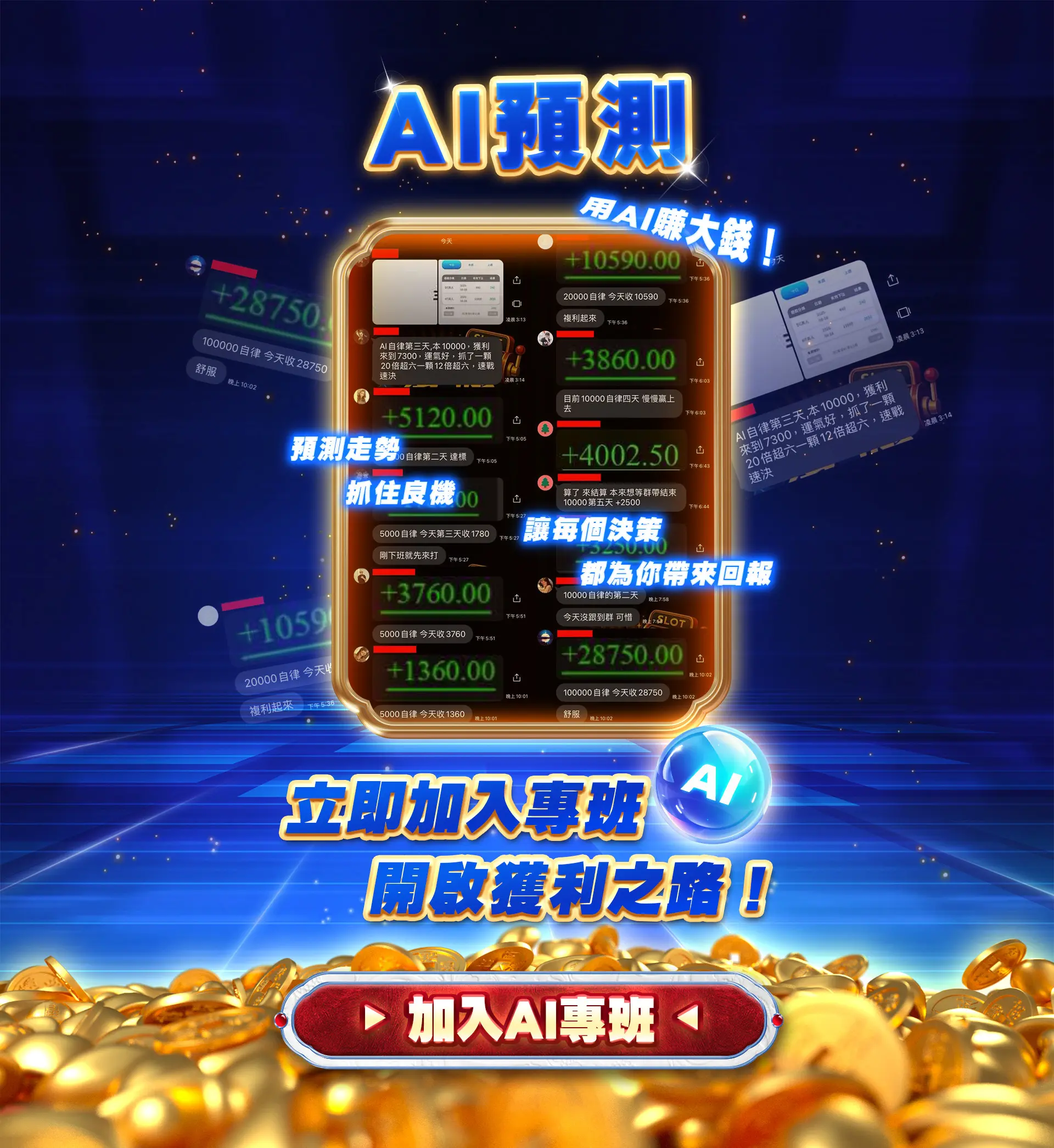
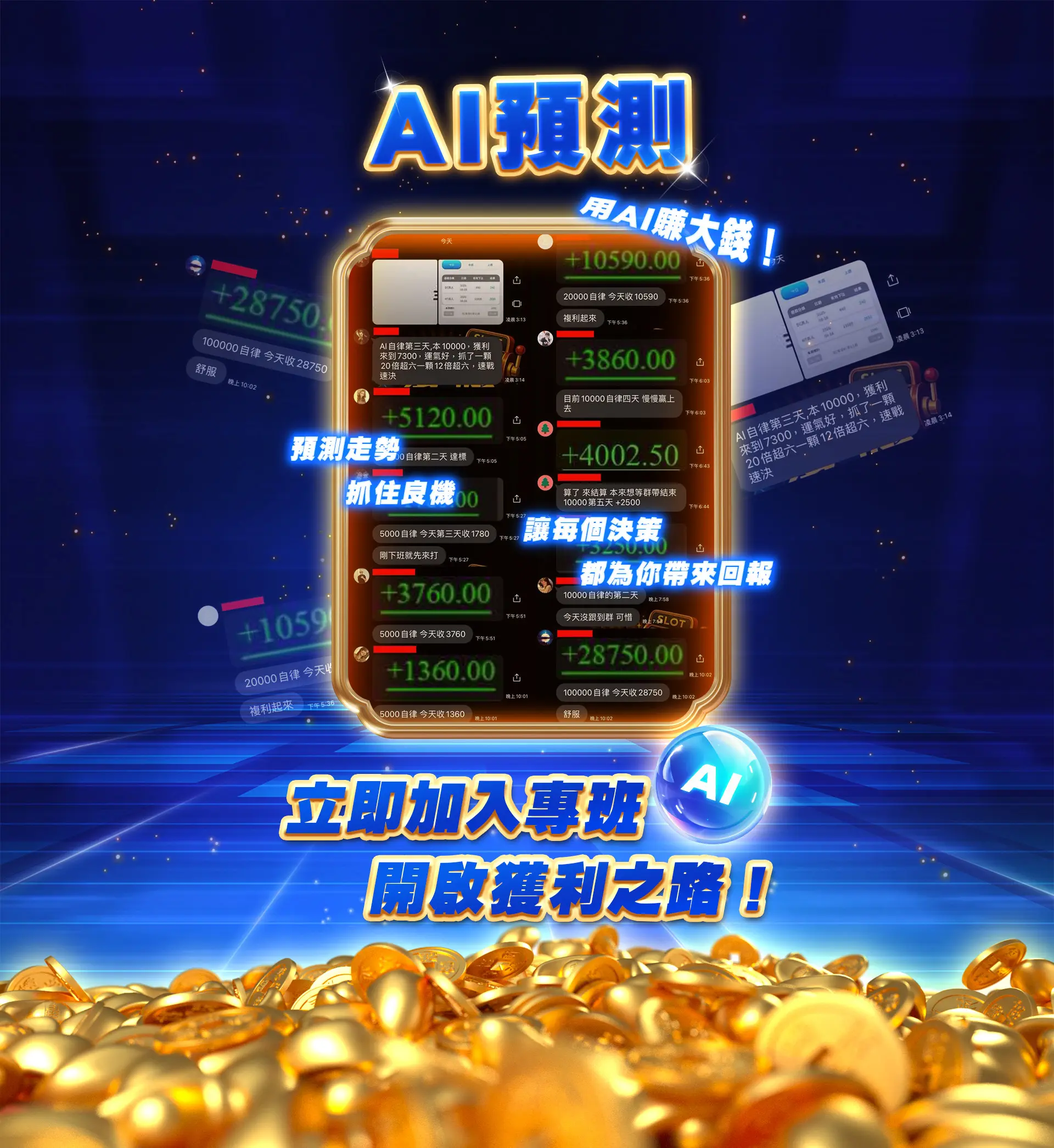
feat: 替换点击区域为按钮图片并优化响应式设计
将点击区域从透明div替换为btn.webp图片按钮，提升用户体验
优化移动端和横屏模式下的按钮显示尺寸和位置

Changed region(s): [[0.25, 0.8397, 0.75, 0.9641]]

diff --git a/index.html b/index.html
@@ -1,46 +1,50 @@
 <!DOCTYPE html>
 <html lang="zh-TW">
+
 <head>
     <meta charset="UTF-8">
     <meta name="viewport" content="width=device-width, initial-scale=1.0, user-scalable=no">
     <title>樂樂 ai預測</title>
-    
+
     <!-- Meta Pixel Code -->
     <script>
-    !function(f,b,e,v,n,t,s)
-    {if(f.fbq)return;n=f.fbq=function(){n.callMethod?
-    n.callMethod.apply(n,arguments):n.queue.push(arguments)};
-    if(!f._fbq)f._fbq=n;n.push=n;n.loaded=!0;n.version='2.0';
-    n.queue=[];t=b.createElement(e);t.async=!0;
-    t.src=v;s=b.getElementsByTagName(e)[0];
-    s.parentNode.insertBefore(t,s)}(window, document,'script',
-    'https://connect.facebook.net/en_US/fbevents.js');
-    fbq('init', '2025555347851416');
-    fbq('track', 'PageView');
+        !function (f, b, e, v, n, t, s) {
+            if (f.fbq) return; n = f.fbq = function () {
+                n.callMethod ?
+                n.callMethod.apply(n, arguments) : n.queue.push(arguments)
+            };
+            if (!f._fbq) f._fbq = n; n.push = n; n.loaded = !0; n.version = '2.0';
+            n.queue = []; t = b.createElement(e); t.async = !0;
+            t.src = v; s = b.getElementsByTagName(e)[0];
+            s.parentNode.insertBefore(t, s)
+        }(window, document, 'script',
+            'https://connect.facebook.net/en_US/fbevents.js');
+        fbq('init', '2025555347851416');
+        fbq('track', 'PageView');
     </script>
     <noscript><img height="1" width="1" style="display:none"
-    src="https://www.facebook.com/tr?id=2025555347851416&ev=PageView&noscript=1"
-    /></noscript>
+            src="https://www.facebook.com/tr?id=2025555347851416&ev=PageView&noscript=1" /></noscript>
     <!-- End Meta Pixel Code -->
-    
+
     <style>
         * {
             margin: 0;
             padding: 0;
             box-sizing: border-box;
         }
-        
-        html, body {
+
+        html,
+        body {
             height: 100%;
         }
-        
+
         .container {
             position: relative;
             width: 100vw;
             height: 100vh;
             overflow: hidden;
         }
-        
+
         .container::before {
             content: '';
             position: absolute;
@@ -56,7 +60,7 @@
             transform: scale(1.1);
             z-index: 1;
         }
-        
+
         .fullscreen-img {
             position: absolute;
             top: 50%;
@@ -68,35 +72,54 @@
             transform: translate(-50%, -50%);
             z-index: 2;
         }
-        
-        .clickable-area {
+
+        .btn-img {
             position: absolute;
-            bottom: 0;
-            left: 0;
-            width: 100%;
-            height: 50%;
+            bottom: 5%;
+            left: 50%;
+            transform: translateX(-50%);
+            width: auto;
+            height: auto;
+            max-width: 500px;
+            max-height: 30%;
+            object-fit: contain;
             cursor: pointer;
             z-index: 10;
         }
-        
+
         /* 響應式設計 */
         @media screen and (max-width: 768px) {
             .fullscreen-img {
                 object-position: center center;
             }
+
+            .btn-img {
+                bottom: calc(50vh - 50vw);
+                max-width: 60%;
+                max-height: 25%;
+            }
         }
-        
+
         @media screen and (orientation: landscape) and (max-height: 500px) {
             .fullscreen-img {
                 object-position: center;
             }
+
+            .btn-img {
+                bottom: 5%;
+                max-width: 70%;
+                max-height: 20%;
+            }
         }
     </style>
 </head>
+
 <body>
     <div class="container">
         <img src="image.webp" alt="全民大跳槽 51888" class="fullscreen-img">
-        <div class="clickable-area" onclick="fbq('track', 'Lead'); window.open('https://lin.ee/zZw3NOb', '_blank')"></div>
+        <img src="btn.webp" alt="立即領取51888" class="btn-img"
+            onclick="fbq('track', 'Lead'); window.open('https://lin.ee/zZw3NOb', '_blank')">
     </div>
 </body>
+
 </html>
